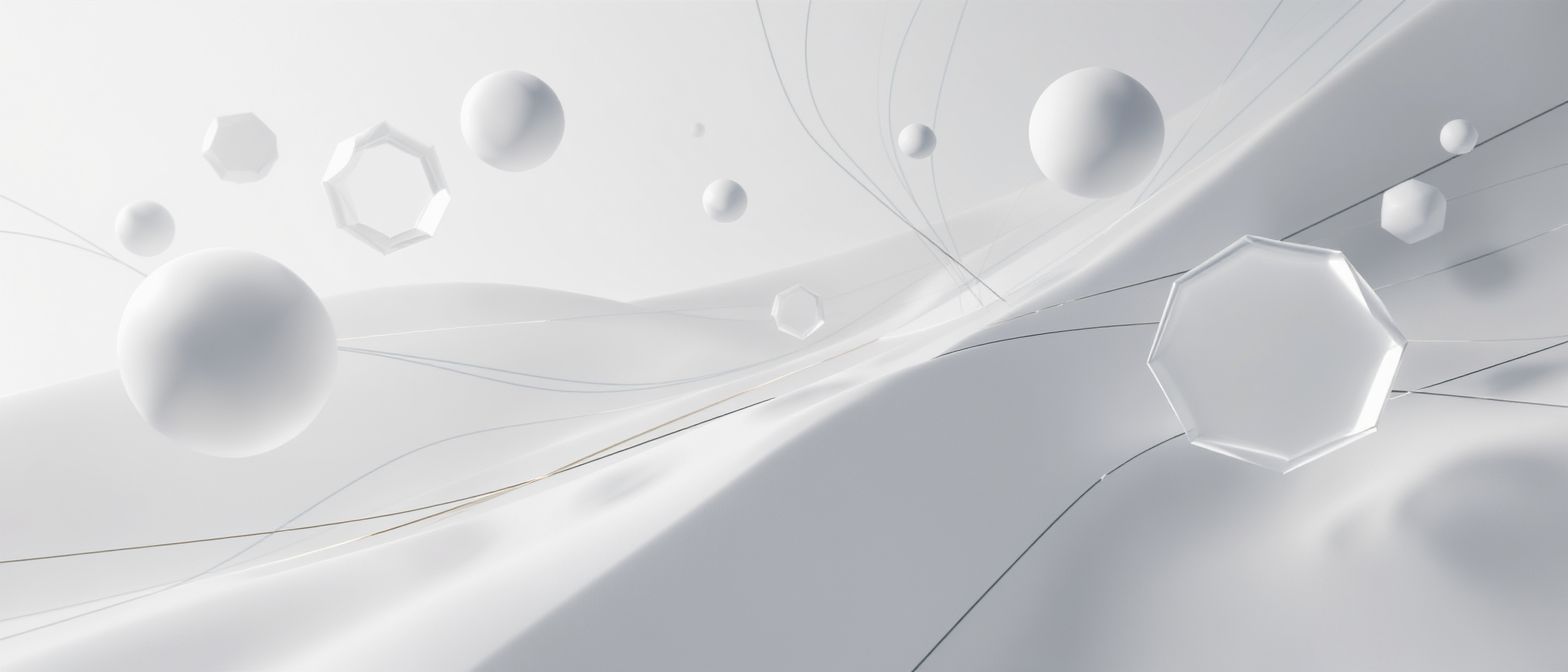
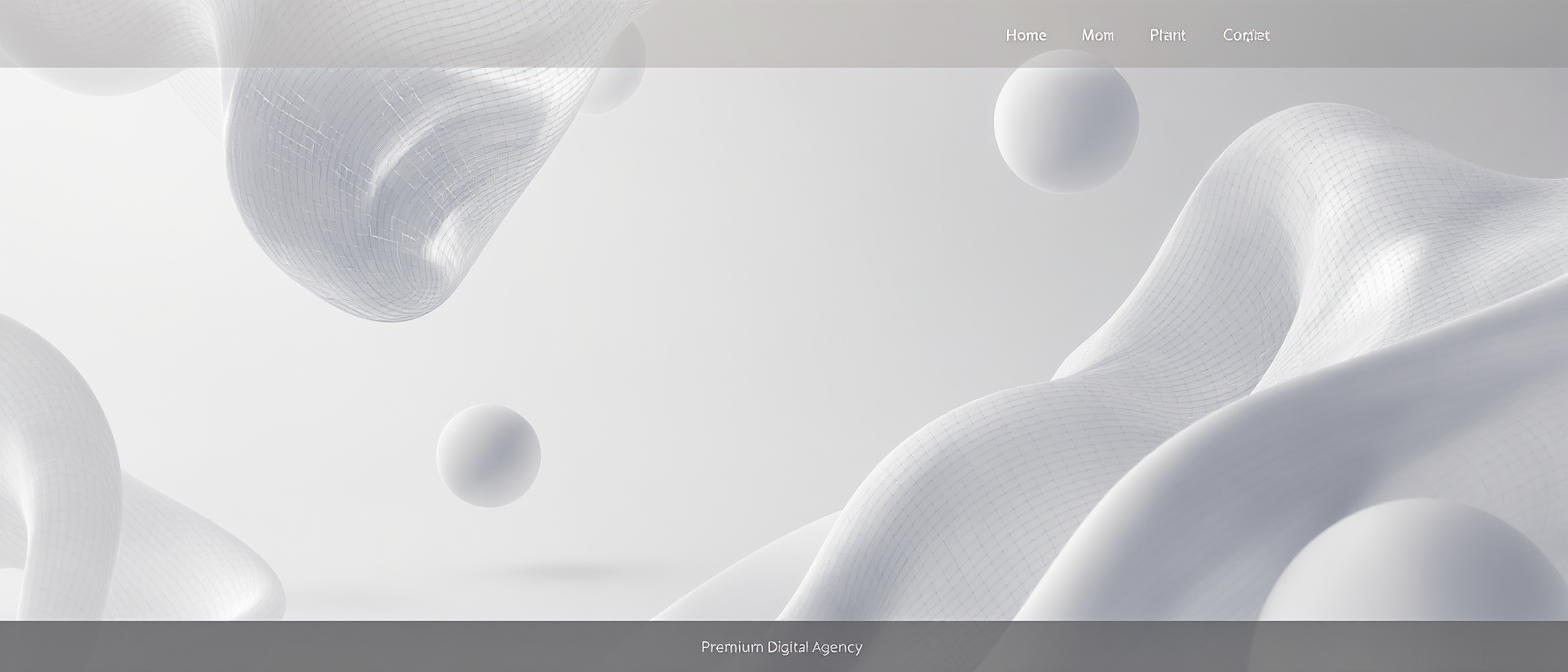
redesign: Cohere-inspired header + hero — short headline, text CTA, new visual
- Nav links: removed hover pill background, cleaner minimal style
- Hero: shorter 3-word headline ("Maîtrisez votre digital."), 1-line subtitle
- Hero CTA: primary fill + text-underline secondary (no border ghost button)
- Removed badge chip above headline for cleaner above-fold
- New hero-visual.png (938 KB) via Kie AI, ultra-cinematic 3D abstract forms

diff --git a/index.html b/index.html
@@ -195,25 +195,14 @@
   }
   .nav-links a {
     position: relative;
-    font-size: 13.5px;
+    font-size: 14px;
     font-weight: 500;
     color: var(--muted);
-    padding: 8px 15px;
+    padding: 7px 16px;
     border-radius: 99px;
-    transition: color .15s ease, background .15s ease;
+    transition: color .18s ease;
   }
-  .nav-links a::after {
-    content: "";
-    position: absolute;
-    bottom: 5px; left: 50%;
-    transform: translateX(-50%) scaleX(0);
-    width: 14px; height: 1.5px;
-    background: var(--ink);
-    border-radius: 2px;
-    transition: transform .2s var(--ease);
-  }
-  .nav-links a:hover { color: var(--ink); background: rgba(0,8,7,.04); }
-  .nav-links a:hover::after { transform: translateX(-50%) scaleX(1); }
+  .nav-links a:hover { color: var(--ink); }
 
   .nav-right {
     justify-self: end;
@@ -355,7 +344,7 @@
     min-height: 100svh;
     display: flex;
     flex-direction: column;
-    padding-top: calc(var(--nav-h) + 84px);
+    padding-top: calc(var(--nav-h) + 96px);
     overflow: hidden;
   }
 
@@ -445,12 +434,12 @@
 
   .hero-h1 {
     font-family: var(--f-display);
-    font-size: clamp(50px, 9vw, 118px);
+    font-size: clamp(48px, 8.5vw, 112px);
     font-weight: 800;
     letter-spacing: -.04em;
-    line-height: 1.0;
+    line-height: 1.03;
     color: var(--ink);
-    margin-bottom: 28px;
+    margin-bottom: 32px;
   }
   .hero-h1 .line { display: block; overflow: hidden; }
   .hero-h1 .line span {
@@ -471,12 +460,12 @@
   }
 
   .hero-sub {
-    max-width: 480px;
-    font-size: clamp(15px, 1.6vw, 17px);
+    max-width: 420px;
+    font-size: clamp(15px, 1.5vw, 16.5px);
     font-weight: 400;
-    line-height: 1.74;
+    line-height: 1.65;
     color: var(--muted);
-    margin-bottom: 44px;
+    margin-bottom: 40px;
     animation: fadeIn .8s .4s var(--ease) both;
   }
   @keyframes fadeIn {
@@ -523,6 +512,20 @@
     transition: background .15s ease, border-color .15s ease;
   }
   .btn-ghost:hover { background: rgba(0,8,7,.04); border-color: rgba(0,8,7,.14); }
+  .btn-text {
+    display: inline-flex;
+    align-items: center;
+    gap: 6px;
+    color: var(--ink);
+    font-family: var(--f-body);
+    font-size: clamp(14px, 1.2vw, 15px);
+    font-weight: 500;
+    padding: 12px 4px;
+    border-bottom: 1.5px solid var(--ink);
+    transition: opacity .15s ease;
+    border-radius: 0;
+  }
+  .btn-text:hover { opacity: .6; }
 
   /* ══════════════════════════════════════════════════════════
      VISUAL MOUNT
@@ -1502,41 +1505,30 @@
   <div class="blob blob-2" aria-hidden="true"></div>
 
   <div class="hero-body wrap">
-    <div class="badge" role="presentation">
-      <div class="badge-dot" aria-hidden="true"></div>
-      <span class="badge-text">
-        <span data-lang="fr">Agence Digitale Premium — Montréal</span>
-        <span data-lang="en">Premium Digital Agency — Montreal</span>
-      </span>
-    </div>
-
     <h1 class="hero-h1" id="hero-h">
       <span data-lang="fr">
-        <span class="line"><span>Du concept au code.</span></span>
-        <span class="line"><span class="grad">De l'écran à l'expérience.</span></span>
+        <span class="line"><span>Maîtrisez votre</span></span>
+        <span class="line"><span class="grad">digital.</span></span>
       </span>
       <span data-lang="en">
-        <span class="line"><span>From concept to code.</span></span>
-        <span class="line"><span class="grad">From screen to experience.</span></span>
+        <span class="line"><span>Master your</span></span>
+        <span class="line"><span class="grad">digital.</span></span>
       </span>
     </h1>
 
     <p class="hero-sub">
-      <span data-lang="fr">UCY Studio conçoit des écosystèmes digitaux sur-mesure où la haute performance technique rencontre un design d'élite. Aucune concession, aucun compromis.</span>
-      <span data-lang="en">UCY Studio crafts bespoke digital ecosystems where elite design meets high-performance engineering. No concessions, no compromise.</span>
+      <span data-lang="fr">Votre vision. Notre ingénierie. UCY Studio la concrétise.</span>
+      <span data-lang="en">Your vision. Our engineering. UCY Studio makes it real.</span>
     </p>
 
     <div class="hero-ctas">
-      <a href="#services" class="btn-fill">
-        <span data-lang="fr">Découvrir nos expertises</span>
-        <span data-lang="en">Discover our expertise</span>
-        <svg viewBox="0 0 13 13" fill="none" aria-hidden="true">
-          <path d="M2 11L11 2M11 2H6M11 2v5" stroke="currentColor" stroke-width="1.6" stroke-linecap="round" stroke-linejoin="round"/>
-        </svg>
+      <a href="#contact" class="btn-fill">
+        <span data-lang="fr">Démarrer un projet</span>
+        <span data-lang="en">Start a project</span>
       </a>
-      <a href="#portfolio" class="btn-ghost">
-        <span data-lang="fr">Voir nos projets</span>
-        <span data-lang="en">View our work</span>
+      <a href="#portfolio" class="btn-text">
+        <span data-lang="fr">Explorer nos projets</span>
+        <span data-lang="en">Explore our work</span>
       </a>
     </div>
   </div>